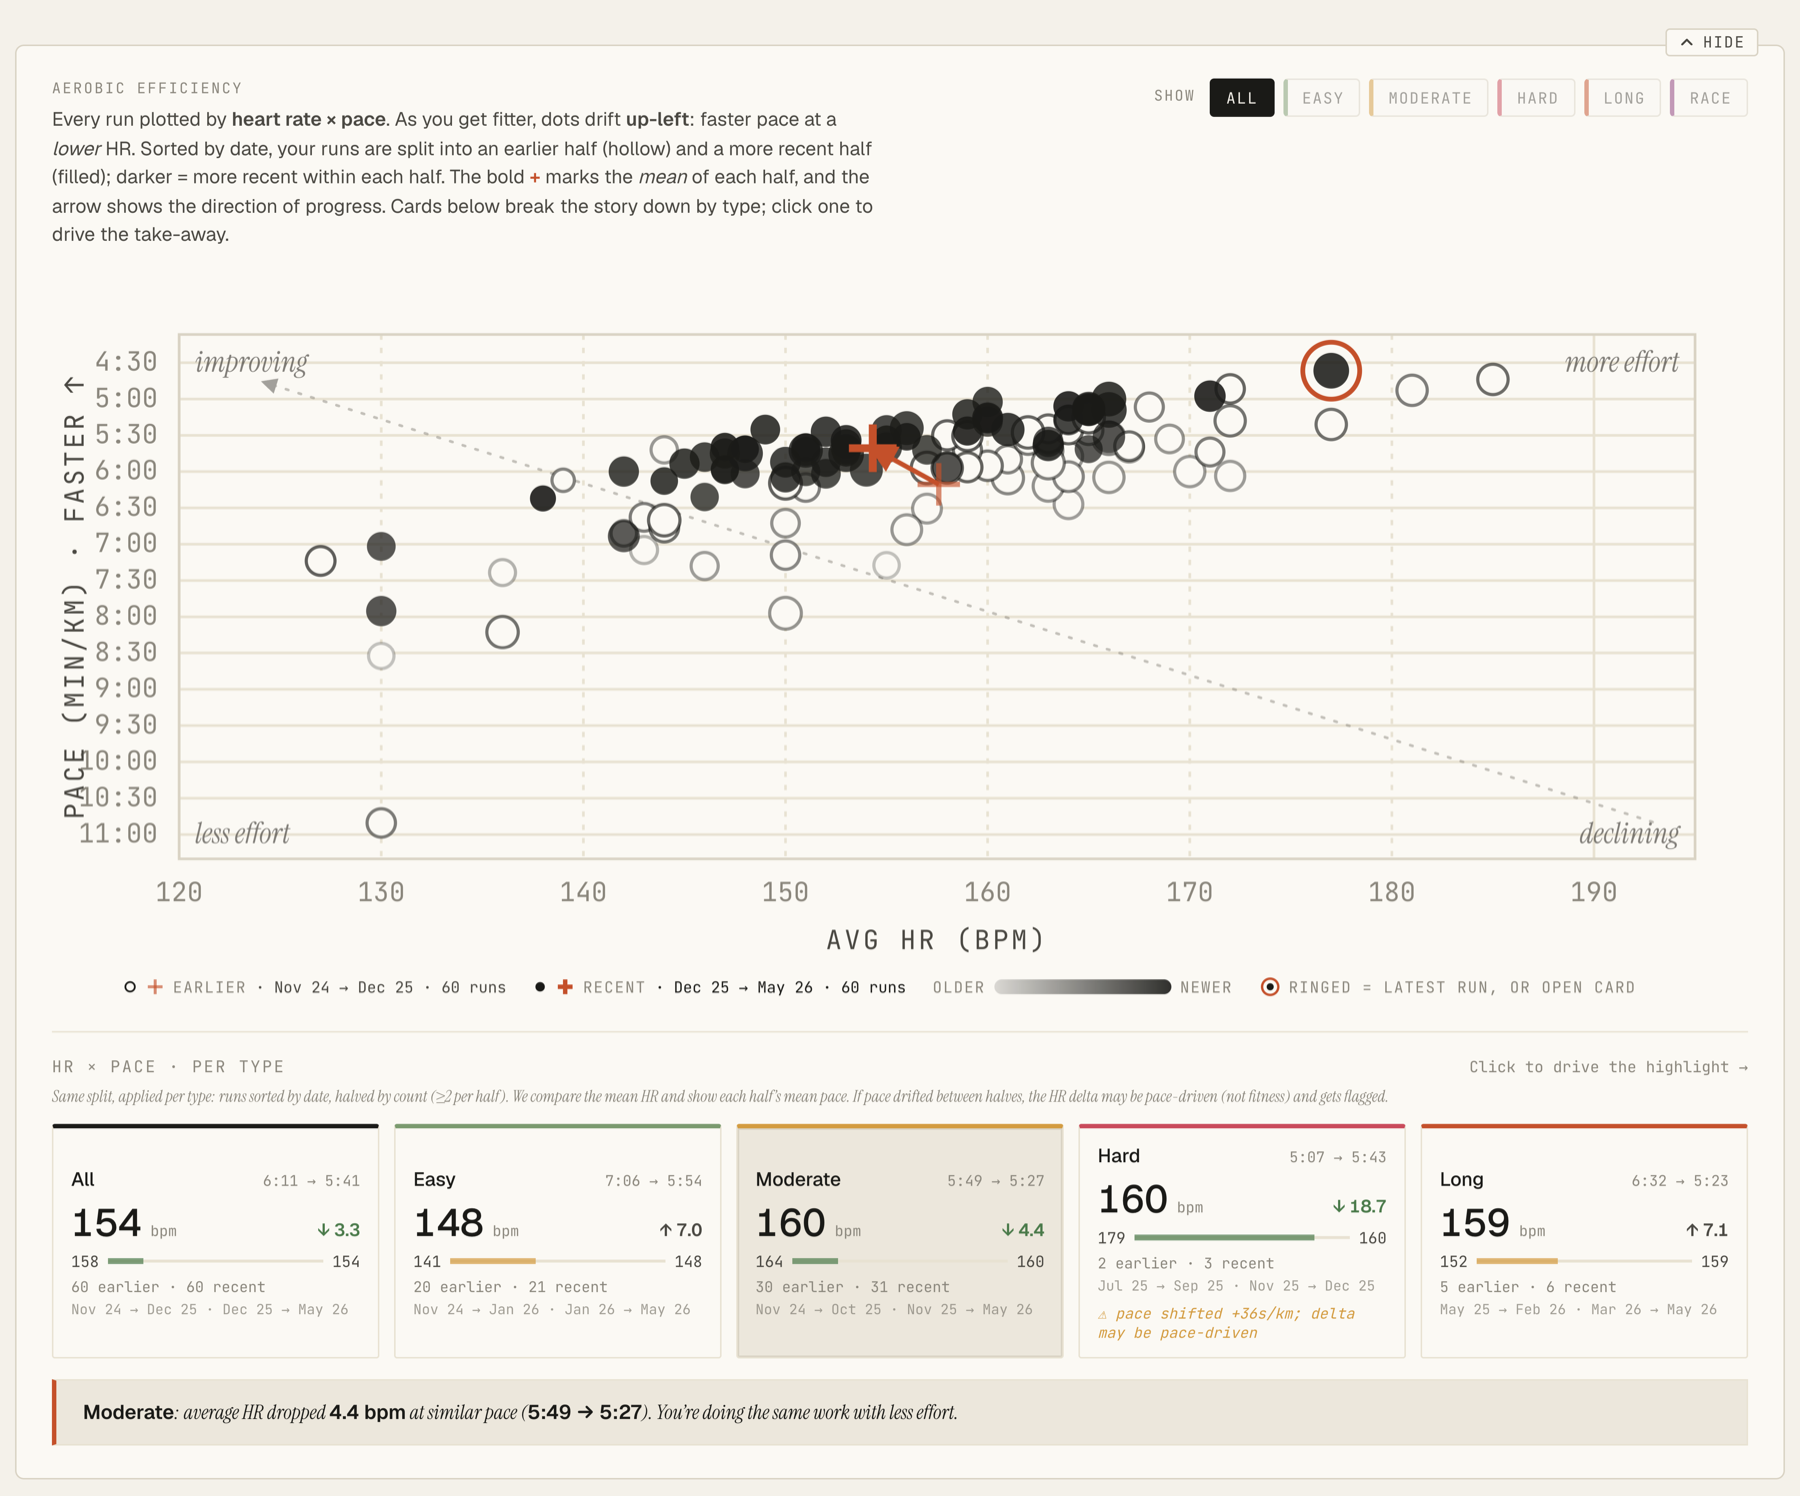
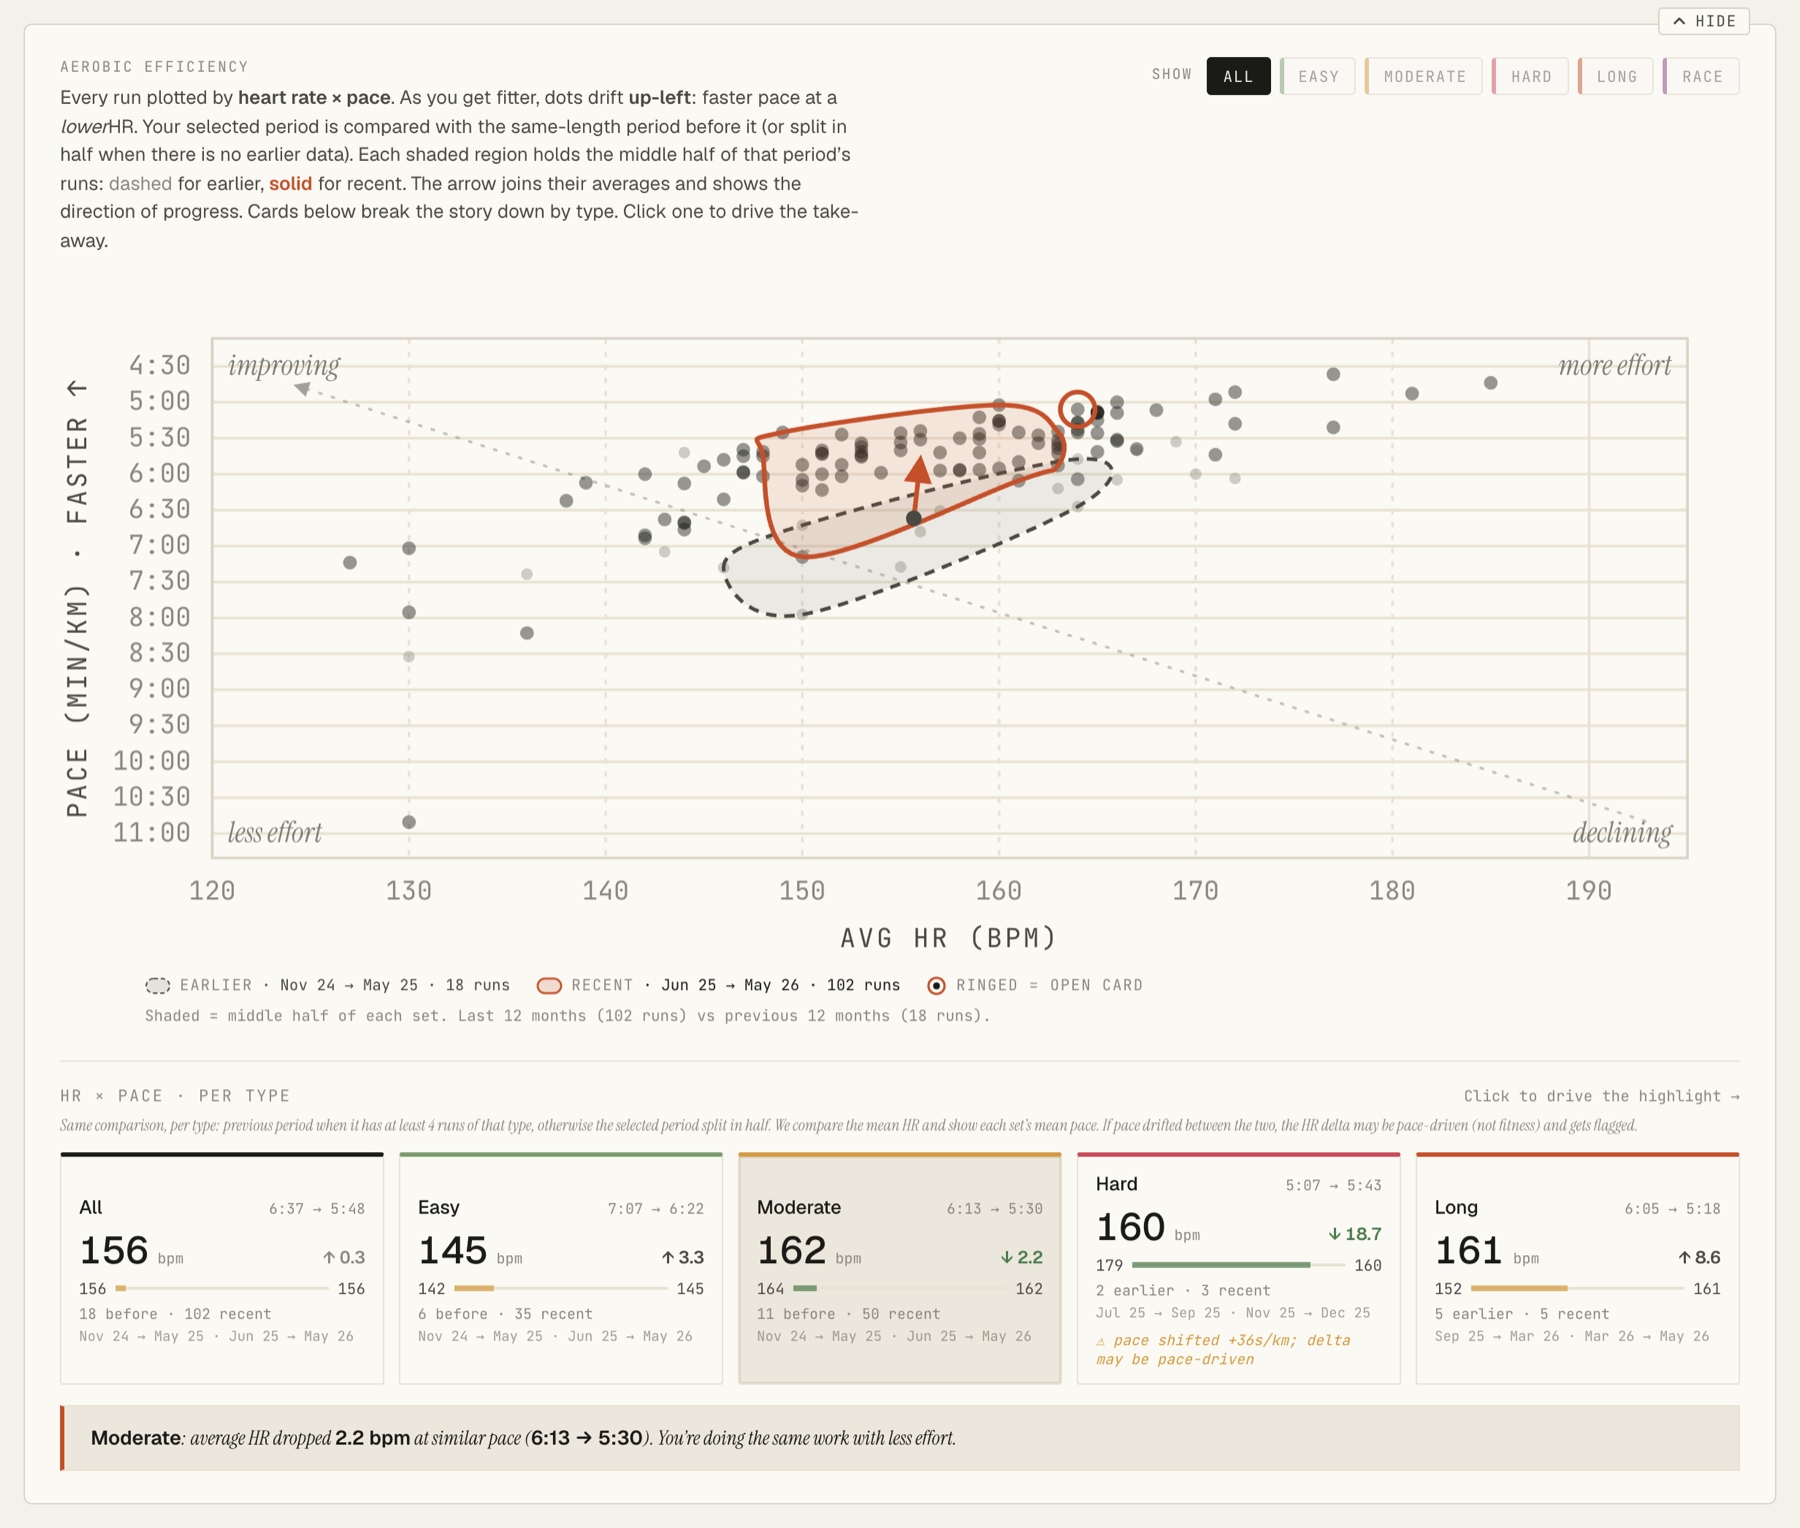
docs: link the GitHub repo and refresh README screenshots

diff --git a/components/AerobicEfficiency.jsx b/components/AerobicEfficiency.jsx
@@ -50,7 +50,10 @@ export default function AerobicEfficiency() {
 
   const W = 640;
   const H = 260;
-  const M = { l: 48, r: 20, t: 22, b: 40 };
+  // l: room for 5-char pace ticks ("10:00") plus the rotated axis title,
+  // which is pinned at Y_TITLE_X so the two never overlap.
+  const M = { l: 58, r: 20, t: 22, b: 40 };
+  const Y_TITLE_X = 10;
   const plotW = W - M.l - M.r;
   const plotH = H - M.t - M.b;
 
@@ -300,9 +303,9 @@ export default function AerobicEfficiency() {
             ))}
 
             <text
-              x={M.l - 36} y={M.t + plotH / 2}
+              x={Y_TITLE_X} y={M.t + plotH / 2}
               textAnchor="middle"
-              transform={`rotate(-90 ${M.l - 36} ${M.t + plotH / 2})`}
+              transform={`rotate(-90 ${Y_TITLE_X} ${M.t + plotH / 2})`}
               style={{ fontFamily: 'var(--mono)', fontSize: 10, fill: 'var(--inkSoft)', letterSpacing: '.1em', textTransform: 'uppercase' }}
             >Pace ({paceUnitLong(units)}) · faster ↑</text>
             <text

diff --git a/components/DistancePaceCurve.jsx b/components/DistancePaceCurve.jsx
@@ -47,7 +47,10 @@ export default function DistancePaceCurve() {
 
   const W = 640;
   const H = 260;
-  const M = { l: 48, r: 20, t: 22, b: 40 };
+  // l: room for 5-char pace ticks ("10:00") plus the rotated axis title,
+  // which is pinned at Y_TITLE_X so the two never overlap.
+  const M = { l: 58, r: 20, t: 22, b: 40 };
+  const Y_TITLE_X = 10;
   const plotW = W - M.l - M.r;
   const plotH = H - M.t - M.b;
 
@@ -293,9 +296,9 @@ export default function DistancePaceCurve() {
         ))}
 
         <text
-          x={M.l - 36} y={M.t + plotH / 2}
+          x={Y_TITLE_X} y={M.t + plotH / 2}
           textAnchor="middle"
-          transform={`rotate(-90 ${M.l - 36} ${M.t + plotH / 2})`}
+          transform={`rotate(-90 ${Y_TITLE_X} ${M.t + plotH / 2})`}
           style={{ fontFamily: 'var(--mono)', fontSize: 10, fill: 'var(--inkSoft)', letterSpacing: '.1em', textTransform: 'uppercase' }}
         >Pace ({paceUnitLong(units)})</text>
         <text

diff --git a/components/Dashboard.jsx b/components/Dashboard.jsx
@@ -22,6 +22,7 @@ import TweakPanel, { COMPACT_MIN_WIDTH } from './TweakPanel';
 import ConnectBanner from './ConnectBanner';
 import TouchDismissHandler from './TouchDismissHandler';
 import Showdown from './Showdown';
+import { REPO_URL } from '@/lib/site';
 import PanelErrorBoundary from './PanelErrorBoundary';
 import CompactGrid from './CompactGrid';
 import CollapsibleSection, { sectionId } from './CollapsibleSection';
@@ -530,6 +531,7 @@ function DashboardBody({ effectiveMode, athleteName, athleteId, runCount }) {
           {['support', 'privacy', 'terms'].map((p) => (
             <a key={p} href={`/${p}`} style={{ color: 'inherit', textDecoration: 'none' }}>{p}</a>
           ))}
+          <a href={REPO_URL} target="_blank" rel="noreferrer" style={{ color: 'inherit', textDecoration: 'none' }}>github</a>
         </div>
       </div>
     </div>

diff --git a/app/support/page.jsx b/app/support/page.jsx
@@ -1,6 +1,6 @@
 import Link from 'next/link';
 import LegalPage from '@/components/LegalPage';
-import { SUPPORT_EMAIL, STRAVA_APPS_SETTINGS } from '@/lib/site';
+import { SUPPORT_EMAIL, STRAVA_APPS_SETTINGS, REPO_URL } from '@/lib/site';
 
 export const metadata = {
   title: 'Support',
@@ -51,6 +51,12 @@ export default function SupportPage() {
       <p>
         Yes. Every expanded run card has a <b>View on Strava</b> link to the original
         activity, and your name at the top of the dashboard links to your Strava profile.
+      </p>
+      <h3>Is Stride Atlas open source?</h3>
+      <p>
+        Yes. The code is on{' '}
+        <a href={REPO_URL} target="_blank" rel="noreferrer">GitHub</a>, so you can read exactly
+        how your data is handled and report bugs as issues.
       </p>
     </LegalPage>
   );

diff --git a/app/page.jsx b/app/page.jsx
@@ -3,6 +3,7 @@ import { redirect } from 'next/navigation';
 import { getSession, isLoggedIn } from '@/lib/session';
 import HeroRibbonPreview from '@/components/HeroRibbonPreview';
 import { FooterLinks } from '@/components/LegalPage';
+import { REPO_URL } from '@/lib/site';
 
 export const metadata = {
   title: 'Stride Atlas · See your running progress',
@@ -24,6 +25,7 @@ export default async function LandingPage() {
         <nav className="landing-nav-links">
           <Link href="/demo">Demo</Link>
           <Link href="/support">Support</Link>
+          <a href={REPO_URL} target="_blank" rel="noreferrer">GitHub</a>
         </nav>
       </header>
 

diff --git a/components/LegalPage.jsx b/components/LegalPage.jsx
@@ -1,4 +1,5 @@
 import Link from 'next/link';
+import { REPO_URL } from '@/lib/site';
 
 // Shared chrome for the plain text pages (privacy, terms, support,
 // disconnected). Server component: no hooks, no client state.
@@ -9,6 +10,7 @@ export function FooterLinks() {
       <Link href="/support">Support</Link>
       <Link href="/privacy">Privacy</Link>
       <Link href="/terms">Terms</Link>
+      <a href={REPO_URL} target="_blank" rel="noreferrer">GitHub</a>
     </nav>
   );
 }

diff --git a/lib/site.js b/lib/site.js
@@ -10,6 +10,10 @@ export const OPERATOR_NAME = 'Nunzio Alexandro Letizia';
 
 export const SITE_URL = 'https://stride.letizia.tech';
 
+// Stride Atlas is open source. Linked from the landing nav, every footer
+// and the support FAQ.
+export const REPO_URL = 'https://github.com/nuletizia/stride-atlas';
+
 // Shown as "Last updated" on /privacy and /terms. Bump when either changes.
 export const LEGAL_UPDATED = 'November 2026';
 

diff --git a/README.md b/README.md
@@ -12,8 +12,10 @@ best, this week against your best week.
 <img src="public/screenshots/compact.png" alt="Stride Atlas compact view: a 3x3 grid of panels showing a run calendar heatmap, all-time totals, personal records, pace trend ribbons, aerobic efficiency, aerobic durability, same-route duel, week comparator and season arc">
 
 <sub><b>Compact view.</b> The whole dashboard on one screen, no scrolling. 130 runs, 1203 km,
-an 80/20 intensity split, and a plain-English read at the top: <i>27s/km faster, 4 bpm lower,
-2.9 km longer</i>. Switch to <b>Full</b> for the drill-down below.</sub>
+and a plain-English read at the top: <i>27s/km faster, 3.3 bpm lower, 2.9 km longer</i>, which
+reads as <i>fitness gains</i>. The sentence uses the same comparison as the scatter tiles below
+it, so they always agree. Click any tile, or flip the <b>Compact / Full</b> toggle, to drill
+in.</sub>
 
 <table>
 <tr>
@@ -21,7 +23,7 @@ an 80/20 intensity split, and a plain-English read at the top: <i>27s/km faster,
 <img src="public/screenshots/run-cards.png" alt="Run Cards panel with one card expanded: a half-marathon PR at 4:37/km, compared against three similar long runs on a peer spread bar">
 </td>
 <td width="50%" valign="top">
-<img src="public/screenshots/aerobic-efficiency.png" alt="Aerobic Efficiency scatter plot: every run plotted by average heart rate against pace, split into an earlier hollow half and a recent filled half, with an arrow showing the direction of progress">
+<img src="public/screenshots/aerobic-efficiency.png" alt="Aerobic Efficiency scatter plot: every run plotted by average heart rate against pace, the last 12 months drawn as a solid shaded region and the 12 months before as a dashed one, with an arrow between their averages and per-type cards below">
 </td>
 </tr>
 <tr>
@@ -30,11 +32,19 @@ an 80/20 intensity split, and a plain-English read at the top: <i>27s/km faster,
 average of its three closest peers, with the peer spread drawn as a bar and each comparison run
 one click away.</sub></td>
 <td valign="top"><sub><b>Aerobic Efficiency.</b> Every run as heart rate × pace. Dots drift
-<b>up-left</b> as you get fitter: faster at a lower HR. Hollow = earlier half, filled = recent
-half, and the <code>+</code> markers with the arrow show where the average moved. Click a dot to
-jump to that run's card.</sub></td>
+<b>up-left</b> as you get fitter: faster at a lower HR. The selected window (here the last 12
+months, solid) is compared with the same-length window before it (dashed). Each shaded region
+holds the middle half of its runs, and the arrow joins their averages. Cards below split the
+story by workout type. Click a dot to jump to that run's card.</sub></td>
 </tr>
 </table>
+
+<img src="public/screenshots/showdown.png" alt="Showdown: two half-marathon PRs side by side as cards, the May run winning on stamina 1.66 to 1.59, with percentile bars for pace, distance, heart rate, efficiency and stamina">
+
+<sub><b>Showdown.</b> Pick any two runs and put them head to head. The winner is decided by the
+metric you choose (stamina by default, which adjusts for distance), and every bar is a
+percentile among your own runs, so a longer bar is always better. Open it with <b>Compare</b>
+on an expanded run card, or share it as a <code>?vs=a,b</code> link.</sub>
 
 [![Next.js](https://img.shields.io/badge/Next.js-16-000000?logo=next.js&logoColor=white)](https://nextjs.org)
 [![React](https://img.shields.io/badge/React-18-61DAFB?logo=react&logoColor=black)](https://react.dev)
@@ -62,13 +72,14 @@ whole design brief.
 | **Personal Records** | What are my best rolling splits from 1K to the marathon, and when did they move? |
 | **Trend Ribbons** | Is my pace improving *per workout type*? Easy days and hard days get their own trend. |
 | **Aerobic Efficiency** | Is my heart rate falling at the same pace? The single clearest fitness signal here. |
-| **Aerobic Durability** | Can I hold pace as distance goes up? Distance × pace, with a fit line per type. |
+| **Aerobic Durability** | Can I hold pace as distance goes up? Distance × pace, this period against the one before, split by workout type. |
 | **Same-Route Duel** | On the route I run most, how does the first attempt compare to the best one? |
 | **Week Comparator** | How does this week stack up against my best week, on distance, runs and time? |
 | **Season Arc** | Am I ahead of where I was this time last year? |
 
 Click a dot, bar or calendar cell in any panel and the matching run card scrolls into view and
-expands. Everything is cross-linked to everything.
+expands. Everything is cross-linked to everything. From an expanded card, **Compare** opens a
+Showdown against your previous best, your last attempt, or any run you pick.
 
 ## How it works
 
@@ -177,9 +188,10 @@ lib/
 scripts/ingest.mjs          offline: FIT/TCX/GPX → data/runs.json
 ```
 
-Five visual styles ship with it (editorial light and dark, telemetry, fieldbook, dataart) — every
-component reads CSS variables, so a palette is a set of tokens, not a rewrite. Style, time range
-and units live behind the **View** button in the bottom right.
+Five visual styles ship with it (editorial light and dark, telemetry, fieldbook, dataart). Every
+component reads CSS variables, so a palette is a set of tokens, not a rewrite. The time range and
+the Compact / Full toggle sit above the panels; style, units and temperature live behind the
+**View** button in the bottom right.
 
 For an architectural deep-dive, see [`CLAUDE.md`](./CLAUDE.md).
 
